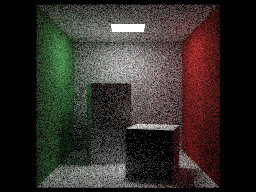
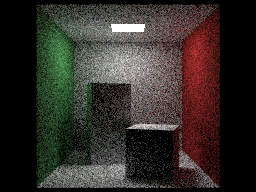
implemented pixel space stratified sampling

diff --git a/src/core/sampler.py b/src/core/sampler.py
@@ -11,6 +11,10 @@ class sampler(ABC):
 	def generate_sample_uv(self,i: int, j: int):
 		return (0.0,0.0);
 
+def is_square(integer):
+	root = math.sqrt(integer)
+	return integer == int(root + 0.5) ** 2
+
 '''
 uniform sampler
 
@@ -44,6 +48,22 @@ N is square of the number of stratified samples per x,y dimension
 '''
 class stratified_sampler(sampler):
 	def __init__(self,nx: float, ny: float,N: int, seed: float = None): 
-		sqrt_N = int(math.sqrt(N))
-		self.s = self.t = sqrt_N
+		assert is_square(N),"For stratified sampler,N must be a square number"
+		self.sqrt_N = int(math.sqrt(N))
+		self.nx = nx
+		self.ny = ny
+	def generate_sample_uv(self, i: int, j: int,s: int,t: int):
+		u = (s + random.random())/(self.sqrt_N)
+		v = (t + random.random())/(self.sqrt_N)
+		u = (i + u)/self.nx
+		v = (j + v)/self.ny
+		return u,v
+	def generate_n_samples_uv(self,i: int, j: int,num_samples: int):
+		samples = []
+		for s in range(self.sqrt_N):
+			for t in range(self.sqrt_N):
+				samples.append(self.generate_sample_uv(i,j,s,t))
+		return samples
+
+
 

diff --git a/main.py b/main.py
@@ -79,7 +79,8 @@ def main(filename: str = 'output',output_res: tuple = (200,100),num_samples= 100
     vfov = 40
     seed = 123
 
-    sampler = uniform_sampler(nx,ny,seed)
+    #sampler = uniform_sampler(nx,ny,seed)
+    sampler = stratified_sampler(nx,ny,num_samples)
     cam = camera(lookfrom,lookat,vec3(0,1,0),vfov,float(nx)/float(ny),aperture,dist_to_focus,0.0,1.0)
     with tqdm(total = ny * nx) as pbar:
         for j in range(ny-1 ,-1,-1):
@@ -88,6 +89,7 @@ def main(filename: str = 'output',output_res: tuple = (200,100),num_samples= 100
                 samples = sampler.generate_n_samples_uv(i,j,num_samples)
                 for s in samples: 
                     u,v = s
+                    #print(" i: {} u:{} j: {}, v: {} ".format(i,u,j,v))
                     r = cam.get_ray(u,v)
                     col += color(r,hit_object_list,0)
                 col /= float(num_samples)
